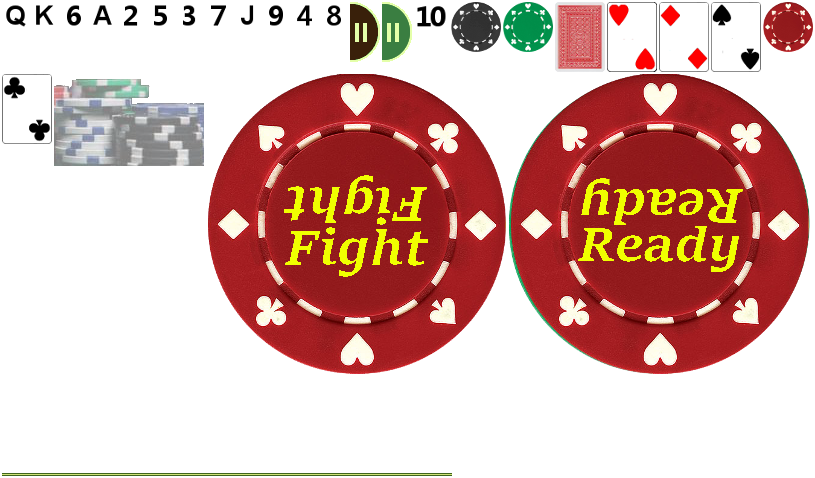
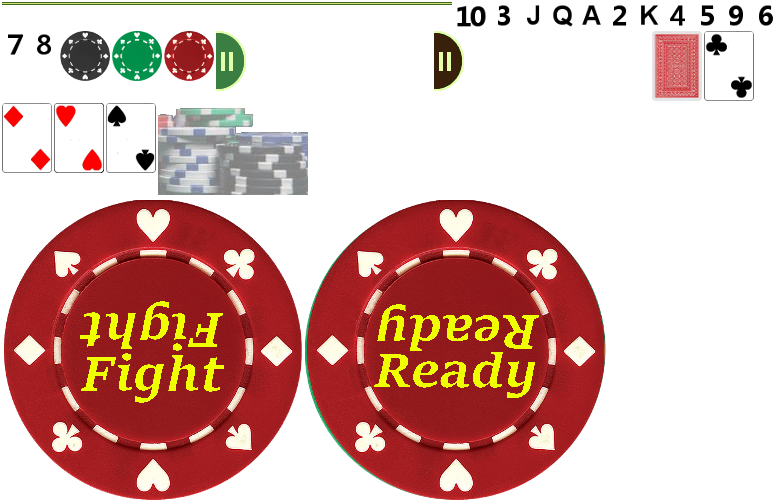
add pause menu

diff --git a/src/app.js b/src/app.js
@@ -21,12 +21,18 @@ var MainLayer = cc.LayerColor.extend({
             model : this.player2
         }));
 
+        var bound = new cc.Sprite(cc.spriteFrameCache.getSpriteFrame("player-bound.png"));
+        bound.attr({
+            x: cc.winSize.width/2,
+            y: cc.winSize.height/2
+        });
+        this.addChild(bound);
 
         var pauseItem = new cc.MenuItemImage(
             cc.spriteFrameCache.getSpriteFrame("pause-default.png"),
             cc.spriteFrameCache.getSpriteFrame("pause-press.png"),
             function () {
-
+                cc.director.pushScene(new PauseMenuScene());
             }, this);
         pauseItem.attr({
             x: 0,
@@ -489,6 +495,8 @@ var MainLayer = cc.LayerColor.extend({
         this.player2Sprite.moneyLabel.runAction(new cc.spawn(new cc.moveTo(times.gameOver, cc.winSize.width/2, cc.winSize.height/2 + 250),
             new cc.scaleTo(times.gameOver, 2,2)));
 
+        gameModel.off();
+        gameModel = null;
         cc.eventManager.addListener(cc.EventListener.create({
             event: cc.EventListener.TOUCH_ONE_BY_ONE,
             swallowTouches: true,
@@ -587,6 +595,60 @@ var GameModel = Backbone.Model.extend({
         return _.sample( this.patternPool );
     }
 })
+
+var PauseMenuLayer = cc.LayerColor.extend({
+    ctor:function(){
+        this._super(colors.table);
+
+        var resumeItem = new cc.MenuItemImage(
+            cc.spriteFrameCache.getSpriteFrame("resume-default.png"),
+            cc.spriteFrameCache.getSpriteFrame("resume-press.png"),
+            function () {
+                cc.director.popScene();
+            }, this);
+        resumeItem.attr({
+            x: cc.winSize.width/2,
+            y: cc.winSize.height/2 - 250
+        });
+
+        var restartItem = new cc.MenuItemImage(
+            cc.spriteFrameCache.getSpriteFrame("restart-default.png"),
+            cc.spriteFrameCache.getSpriteFrame("restart-press.png"),
+            function () {
+                window.gameModel = null;
+                cc.director.runScene(new MainScene());
+            }, this);
+        restartItem.attr({
+            x: cc.winSize.width/2,
+            y: cc.winSize.height/2
+        });
+
+        var exitItem = new cc.MenuItemImage(
+            cc.spriteFrameCache.getSpriteFrame("exit-default.png"),
+            cc.spriteFrameCache.getSpriteFrame("exit-press.png"),
+            function () {
+                window.gameModel = null;
+                cc.director.runScene(new IntroScene());
+            }, this);
+        exitItem.attr({
+            x: cc.winSize.width/2,
+            y: cc.winSize.height/2 + 250
+        });
+
+        var menu = new cc.Menu([exitItem, restartItem, resumeItem ]);
+        menu.x = 0;
+        menu.y = 0;
+        this.addChild(menu);
+    }
+})
+
+var PauseMenuScene = cc.Scene.extend({
+    onEnter:function () {
+        this._super();
+        var layer = new PauseMenuLayer();
+        this.addChild(layer);
+    }
+});
 
 var MainScene = cc.Scene.extend({
     onEnter:function () {

diff --git a/src/skill.js b/src/skill.js
@@ -1,0 +1,14 @@
+var SkillModel = Backbone.Model.extend({
+    defaults:function(){
+        return {
+            name:"no-skill",
+            displayName:"无技能",
+            charge: 3,
+            coolDown: 10,
+            description:"牛X的人不需要使用技能"
+        }
+    },
+    effect:function(){
+
+    }
+})
